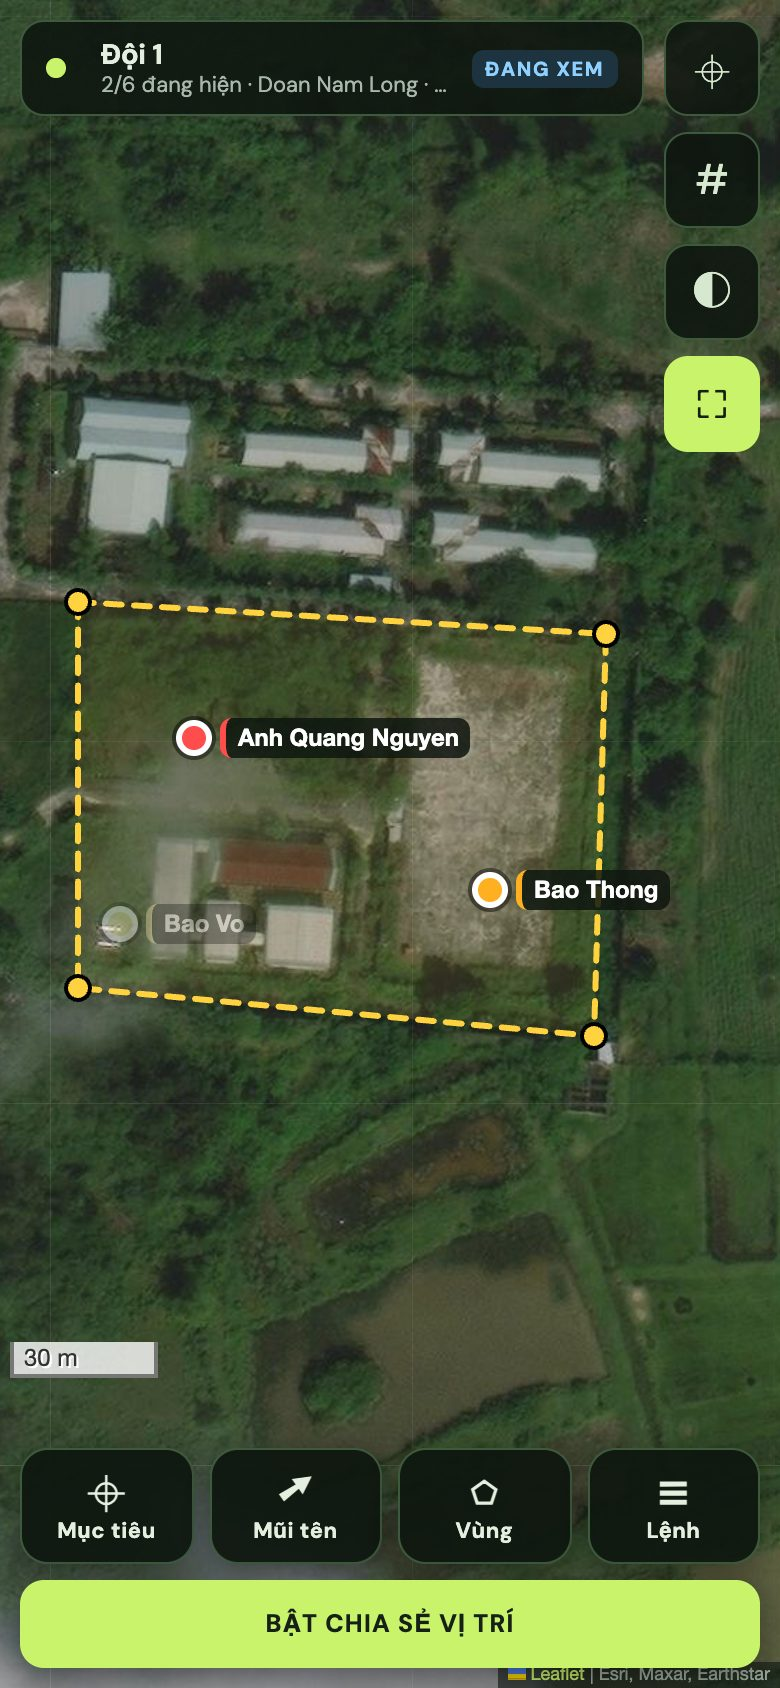
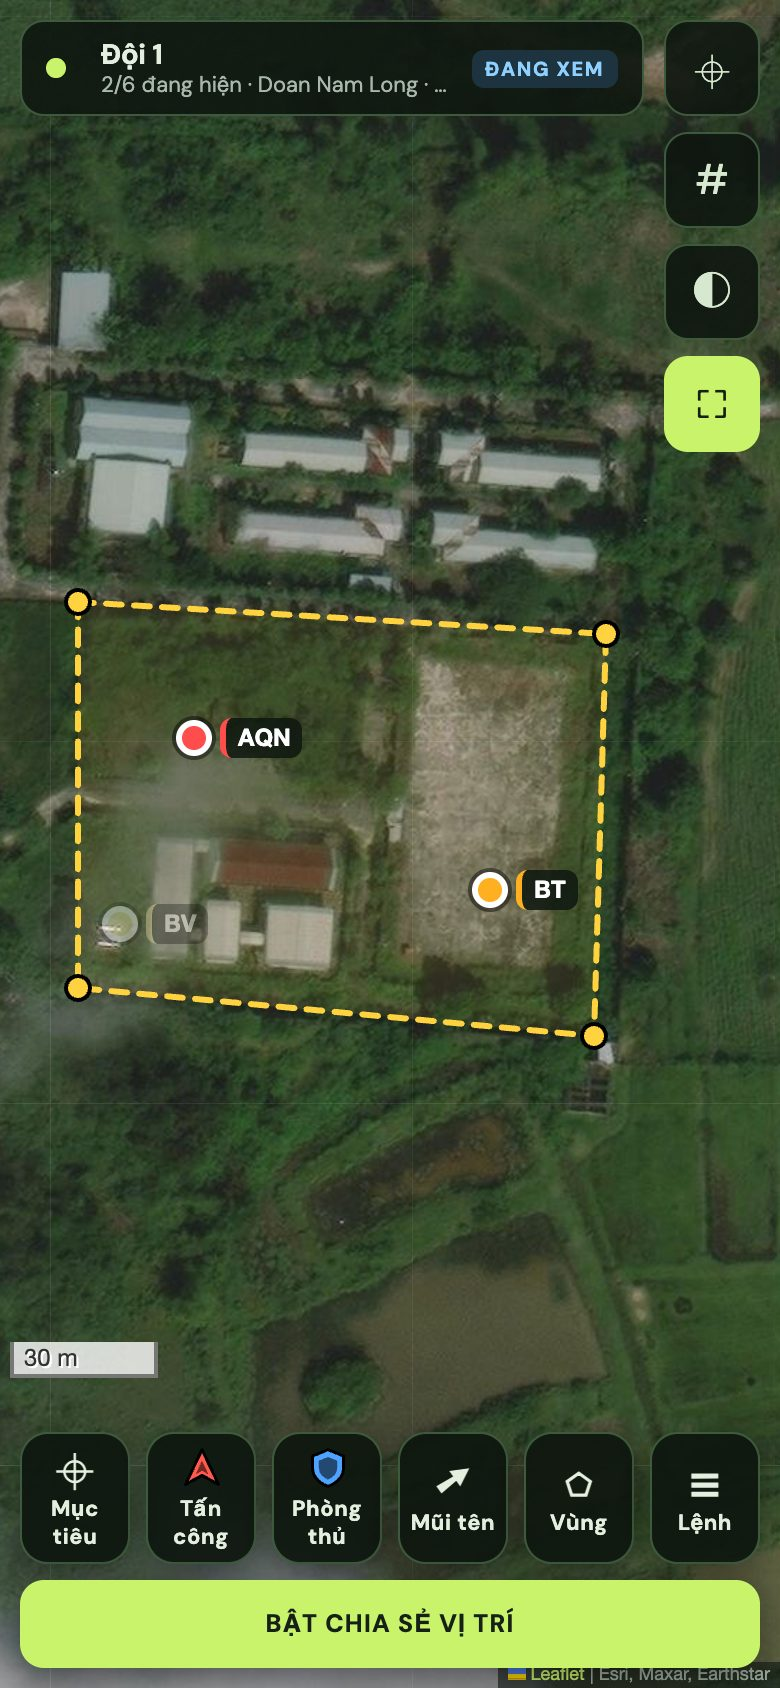
Guide: captain Attack/Defend buttons, new screenshots

diff --git a/guide-data.js b/guide-data.js
@@ -1328,11 +1328,11 @@ window.GUIDE={
     },
     {
      "t": "h",
-     "text": "4 · Đội trưởng: mũi tên và vùng"
+     "text": "4 · Đội trưởng: tấn công, phòng thủ, mũi tên, vùng"
     },
     {
      "t": "p",
-     "html": "Mỗi đội có 1 đội trưởng do người tổ chức đặt. Chỉ đội trưởng có thêm nút <b>➚ Mũi tên</b> và <b>⬠ Vùng</b>."
+     "html": "Mỗi đội có 1 đội trưởng do người tổ chức đặt. Chỉ đội trưởng có thêm nút <b>Tấn công</b> (đỏ), <b>Phòng thủ</b> (xanh), <b>➚ Mũi tên</b> và <b>⬠ Vùng</b>. Tấn công và Phòng thủ chạm 1 điểm là xong, mỗi loại tối đa 5 dấu; hết chỗ thì thay dấu cũ nhất."
     },
     {
      "t": "fig",
@@ -1344,39 +1344,84 @@ window.GUIDE={
        "desc": "Như thành viên thường.",
        "role": null,
        "x": 2.56,
-       "y": 85.78,
-       "w": 22.18,
-       "h": 6.87
+       "y": 84.83,
+       "w": 14.1,
+       "h": 7.82
+      },
+      {
+       "title": "Tấn công",
+       "desc": "Đánh dấu hướng/điểm tấn công: chạm 1 điểm trên bản đồ (đỏ, tối đa 5).",
+       "role": null,
+       "x": 18.72,
+       "y": 84.83,
+       "w": 14.1,
+       "h": 7.82
+      },
+      {
+       "title": "Phòng thủ",
+       "desc": "Đánh dấu vị trí phòng thủ: chạm 1 điểm (xanh, tối đa 5).",
+       "role": null,
+       "x": 34.87,
+       "y": 84.83,
+       "w": 14.1,
+       "h": 7.82
       },
       {
        "title": "➚ Mũi tên",
        "desc": "Chỉ hướng đẩy/di chuyển: chạm ít nhất 2 điểm.",
        "role": null,
-       "x": 26.79,
-       "y": 85.78,
-       "w": 22.18,
-       "h": 6.87
+       "x": 51.03,
+       "y": 84.83,
+       "w": 14.1,
+       "h": 7.82
       },
       {
        "title": "⬠ Vùng",
        "desc": "Khoanh một khu vực: chạm ít nhất 3 điểm.",
        "role": null,
-       "x": 51.03,
-       "y": 85.78,
-       "w": 22.18,
-       "h": 6.87
+       "x": 67.18,
+       "y": 84.83,
+       "w": 14.1,
+       "h": 7.82
       },
       {
        "title": "☰ Lệnh",
        "desc": "Danh sách lệnh, và nút XÓA TẤT CẢ LỆNH (bấm 2 lần để xác nhận).",
        "role": null,
-       "x": 75.26,
-       "y": 85.78,
-       "w": 22.18,
-       "h": 6.87
+       "x": 83.33,
+       "y": 84.83,
+       "w": 14.1,
+       "h": 7.82
       }
      ],
      "alt": "Thanh lệnh của đội trưởng"
+    },
+    {
+     "t": "fig",
+     "shot": "m21-attack-defend",
+     "caption": "Dấu Tấn công và Phòng thủ trên bản đồ",
+     "marks": [
+      {
+       "title": "Tấn công",
+       "desc": "Dấu đỏ: cả đội thấy trên bản đồ.",
+       "role": null,
+       "x": 25.13,
+       "y": 63.74,
+       "w": 11.28,
+       "h": 5.21
+      },
+      {
+       "title": "Phòng thủ",
+       "desc": "Dấu xanh: cả đội thấy trên bản đồ.",
+       "role": null,
+       "x": 66.15,
+       "y": 54.27,
+       "w": 11.28,
+       "h": 5.21
+      }
+     ],
+     "alt": "Dấu Tấn công và Phòng thủ",
+     "role": null
     },
     {
      "t": "fig",

diff --git a/guide.js b/guide.js
@@ -16,7 +16,7 @@
 
   function figure(b) {
     var fig = el('div', 'g-fig');
-    var shot = el('div', 'g-shot'); var img = el('img'); img.src = 'guide/' + b.shot + '.jpg?v=3'; img.alt = b.alt || b.caption || ''; img.loading = 'lazy'; shot.append(img);
+    var shot = el('div', 'g-shot'); var img = el('img'); img.src = 'guide/' + b.shot + '.jpg?v=4'; img.alt = b.alt || b.caption || ''; img.loading = 'lazy'; shot.append(img);
     var legend = el('ol', 'g-legend');
     b.marks.forEach(function (m) {
       var box = el('div', 'g-mk'); box.dataset.role = m.role || ''; box.style.cssText = 'left:' + m.x + '%;top:' + m.y + '%;width:' + m.w + '%;height:' + m.h + '%'; box.append(el('i'));

diff --git a/index.html b/index.html
@@ -24,8 +24,8 @@
   <script type="module" src="app.js?v=mob23"></script>
   <script defer src="nav.js?v=mob19"></script>
   <script defer src="mobile.js?v=mob19"></script>
-  <script defer src="guide-data.js?v=mob21"></script>
-  <script defer src="guide.js?v=mob20"></script>
+  <script defer src="guide-data.js?v=mob22"></script>
+  <script defer src="guide.js?v=mob21"></script>
 </head>
 <body>
   <div class="app-shell">
